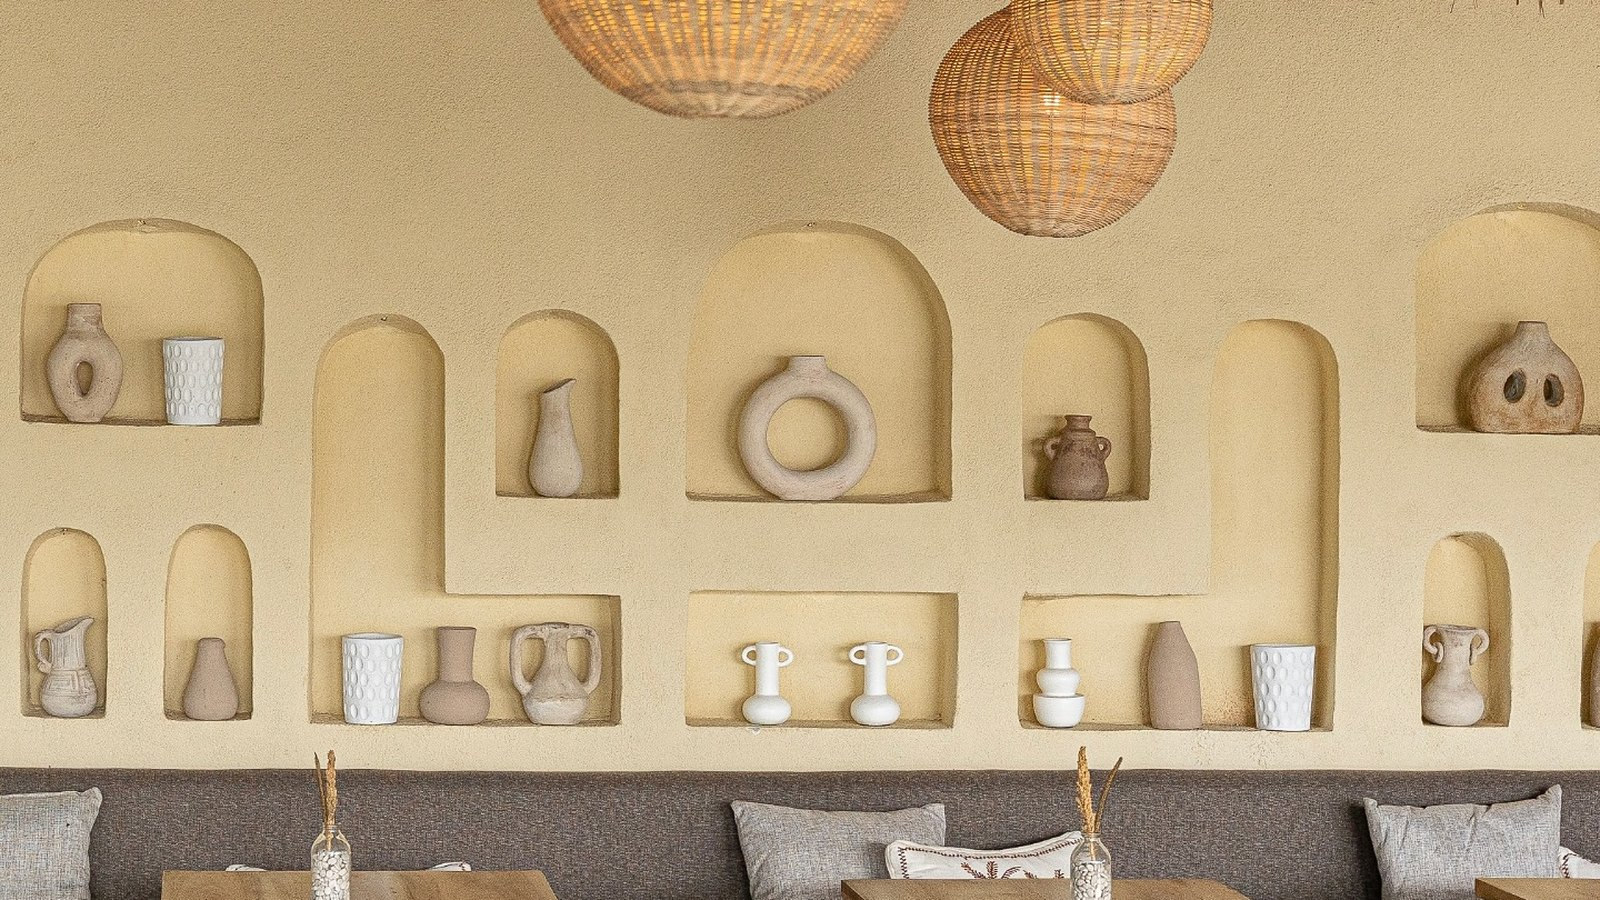
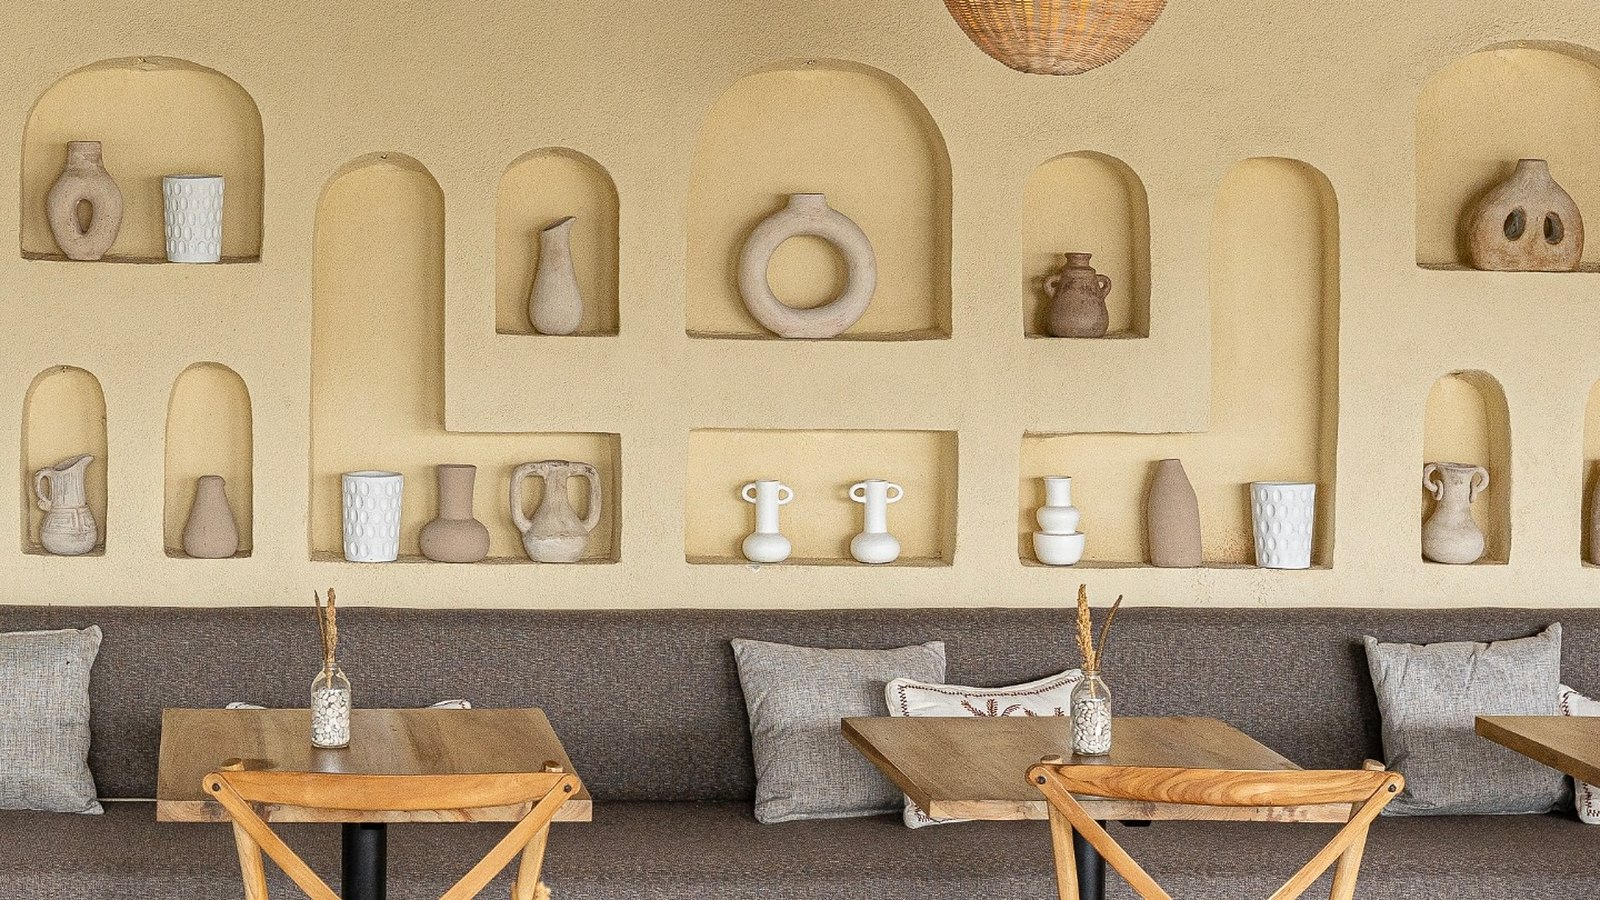
Fix hero crops cutting off too much of the venue on Ulu Cliffhouse and Ama by Ours
Ama by Ours' hero was cropped too high into the pottery-niche wall,
hiding the dining tables below it; re-cropped lower to show both.
Ulu Cliffhouse had no dedicated hero image (it reused the 4:3 card
photo, letting the browser's default center-crop show mostly sky);
added a proper 16:9 hero_img cropped to show more of the resort and
less empty sky/ocean.

Claude-Session: https://claude.ai/code/session_012apiprDPUvAN4apkrwhWuf

diff --git a/site/case-study-ulu-cliffhouse.html b/site/case-study-ulu-cliffhouse.html
@@ -86,7 +86,7 @@
   <!-- HERO IMAGE -->
   <section class="container">
     <div class="card-image reveal" style="aspect-ratio:16/9;">
-      <img src="assets/img/clients/ulu-cliffhouse-case.jpg" alt="Ocean-view cliffside at Ulu Cliffhouse in Uluwatu" loading="lazy" width="1600" height="900" style="width:100%;height:100%;object-fit:cover;">
+      <img src="assets/img/clients/ulu-cliffhouse-hero.jpg" alt="Ocean-view cliffside at Ulu Cliffhouse in Uluwatu" loading="lazy" width="1600" height="900" style="width:100%;height:100%;object-fit:cover;">
     </div>
   </section>
 

diff --git a/wordpress-theme/liam-digital-marketing/inc/case-studies.php b/wordpress-theme/liam-digital-marketing/inc/case-studies.php
@@ -290,6 +290,7 @@ function ldm_get_case_studies() {
 			'img'             => 'ulu-cliffhouse-case.jpg',
 			'alt'             => 'Ocean-view cliffside at Ulu Cliffhouse in Uluwatu',
 			'href'            => null,
+			'hero_img'        => 'ulu-cliffhouse-hero.jpg',
 			'challenge_title' => 'A cliffside destination with several venues needed one system to prove what was working where.',
 			'challenge_body'  => 'Ulu Cliffhouse is a cliffside destination in Uluwatu, Bali, built around clifftop dining, nightlife and stays: Burnt, its fire-dining restaurant with sunset views; Cliffhouse Restaurant for all-day dining; a clifftop Pool Club; Ocean Deck, its evening venue for live music and DJ sets; and Ulu Stay, its boutique hotel suites. Running that many distinct experiences from one iconic location meant the destination needed a paid media and tracking system that could prove which campaigns were driving bookings at each individual venue, not just traffic to the destination as a whole.',
 			'strategy_title'  => 'Full-funnel marketing built for bookings at every venue, not just clicks.',
